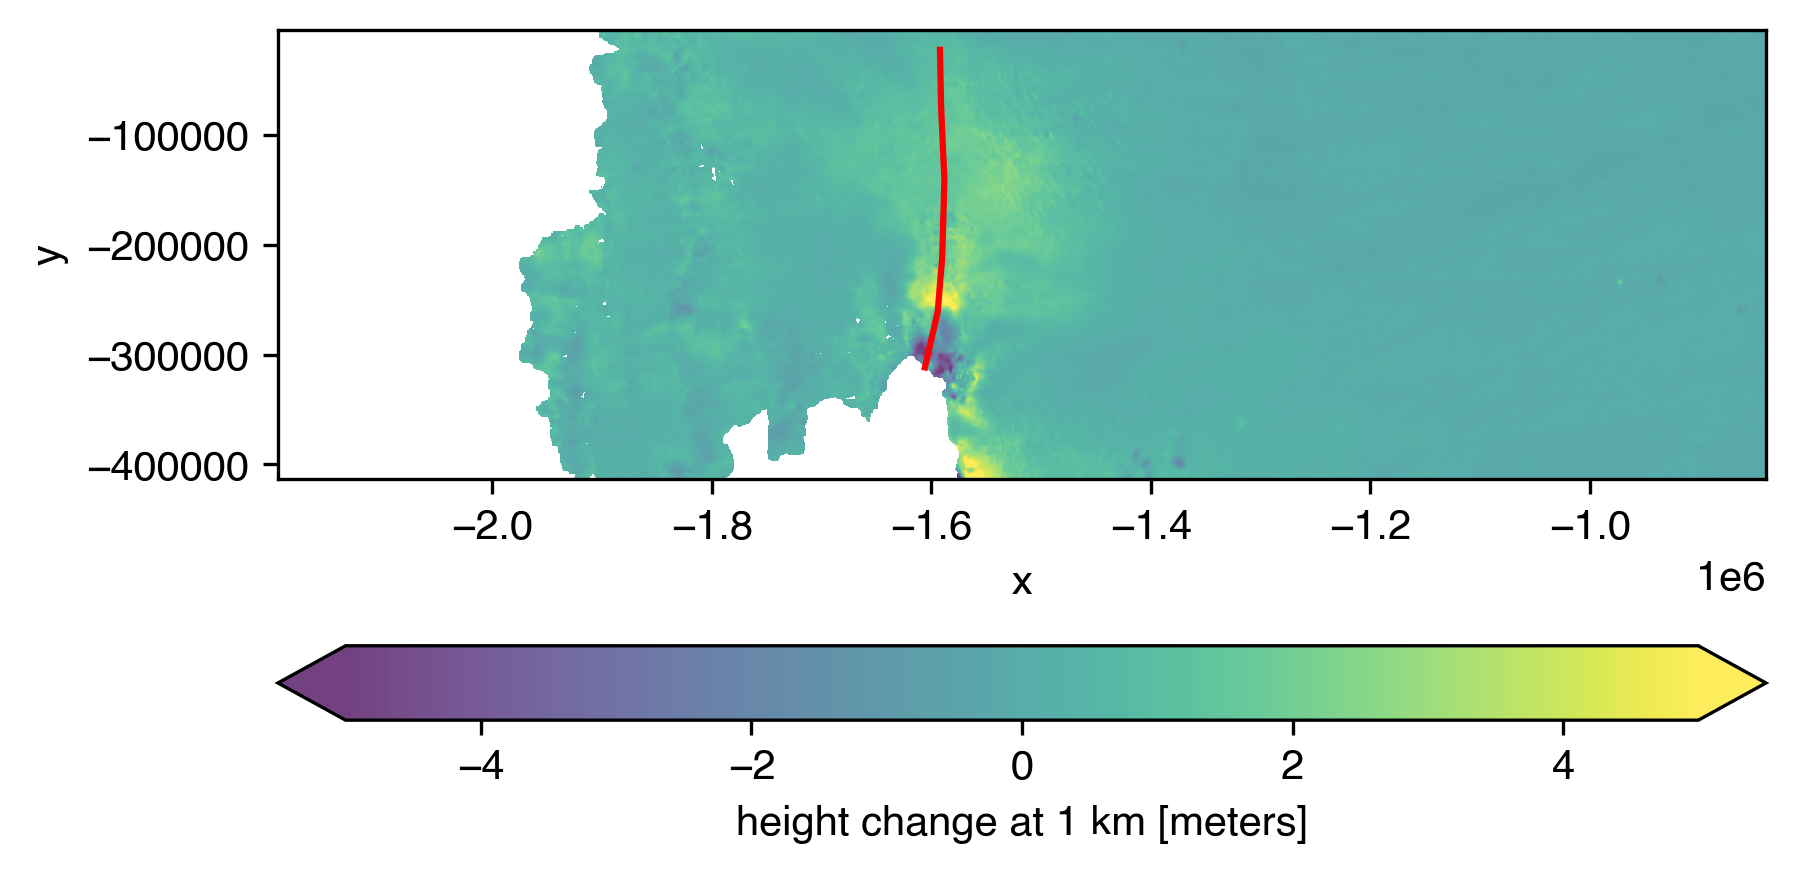
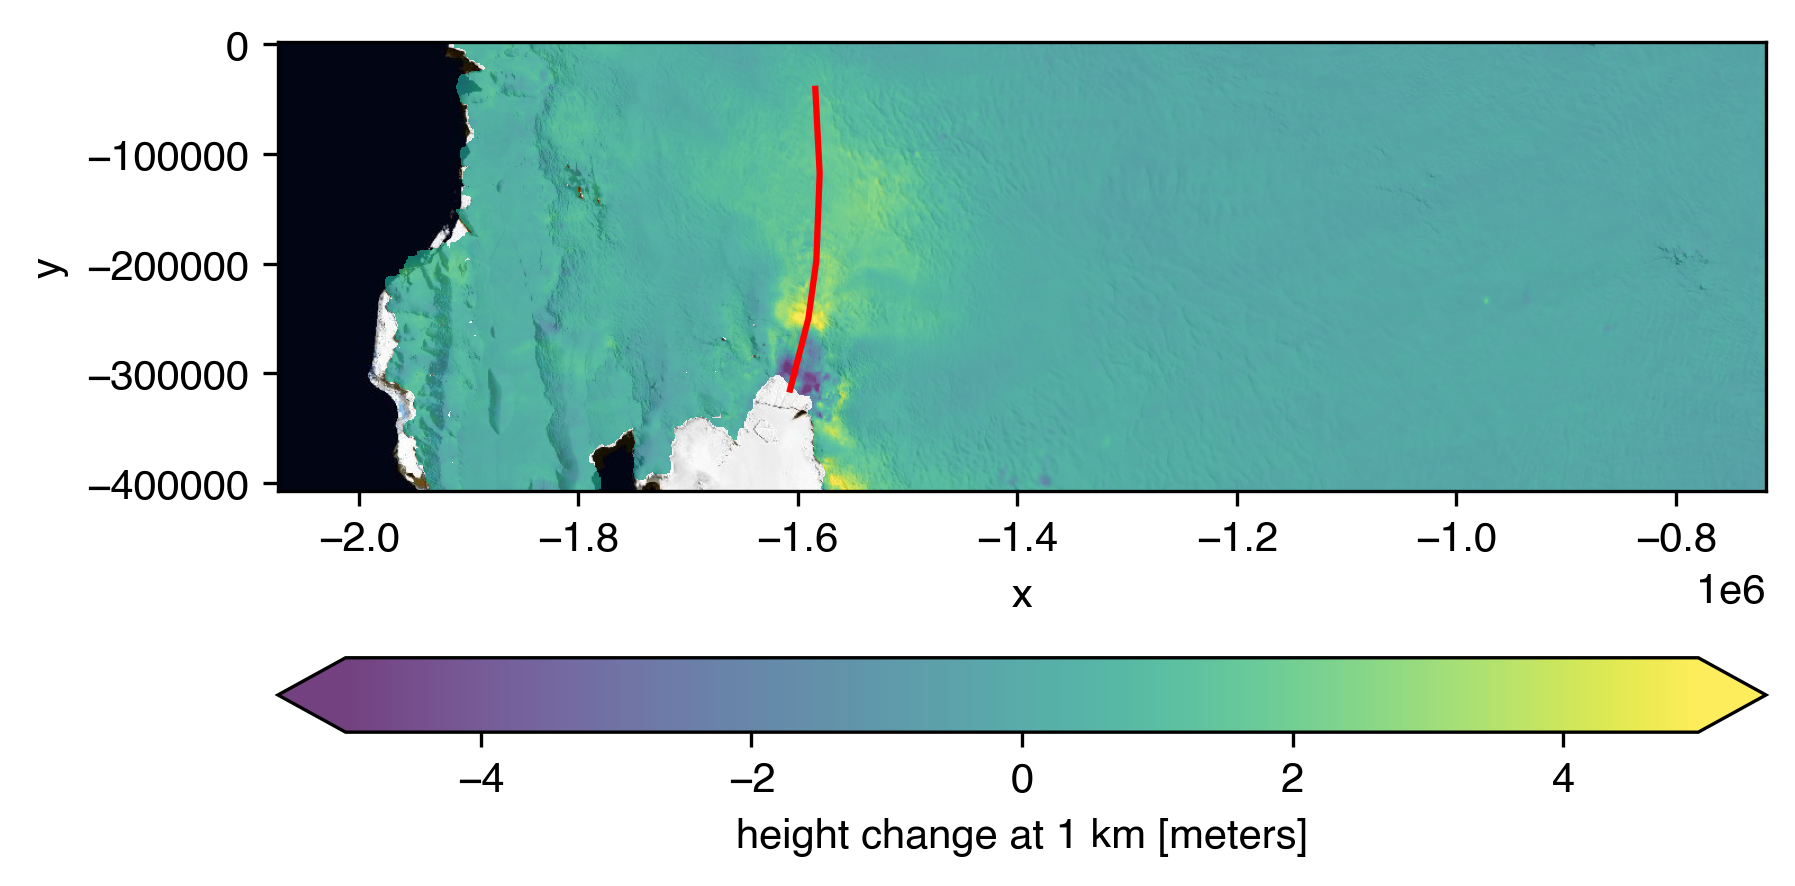
feat: add function for plotting basemap
make some dependencies optional

diff --git a/IS2view/api.py b/IS2view/api.py
@@ -5,9 +5,6 @@ Written by Tyler Sutterley (07/2023)
 Plotting tools for visualizing rioxarray variables on leaflet maps
 
 PYTHON DEPENDENCIES:
-    numpy: Scientific Computing Tools For Python
-        https://numpy.org
-        https://numpy.org/doc/stable/user/numpy-for-matlab-users.html
     geopandas: Python tools for geographic data
         http://geopandas.readthedocs.io/
     ipywidgets: interactive HTML widgets for Jupyter notebooks and IPython
@@ -17,6 +14,11 @@ PYTHON DEPENDENCIES:
     matplotlib: Python 2D plotting library
         http://matplotlib.org/
         https://github.com/matplotlib/matplotlib
+    numpy: Scientific Computing Tools For Python
+        https://numpy.org
+        https://numpy.org/doc/stable/user/numpy-for-matlab-users.html
+    OWSLib: Pythonic interface for Open Geospatial Consortium (OGC) web services
+        https://owslib.readthedocs.io/
     rasterio: Access to geospatial raster data
         https://github.com/rasterio/rasterio
         https://rasterio.readthedocs.io
@@ -25,7 +27,7 @@ PYTHON DEPENDENCIES:
 
 UPDATE HISTORY:
     Updated 07/2023: renamed module from IS2view.py to api.py
-        add plot function for added map geometries
+        add plot functions for map basemaps and added geometries
         add imshow function for visualizing current leaflet map
     Updated 06/2023: moved widgets functions to separate moddule
     Updated 12/2022: added case for warping input image
@@ -73,6 +75,12 @@ try:
 except (ImportError, ModuleNotFoundError) as exc:
     warnings.filterwarnings("module")
     warnings.warn("matplotlib not available")
+    warnings.warn("Some functions will throw an exception if called")
+try:
+    import owslib.wms
+except (ImportError, ModuleNotFoundError) as exc:
+    warnings.filterwarnings("module")
+    warnings.warn("owslib not available")
     warnings.warn("Some functions will throw an exception if called")
 try:
     import rasterio.transform
@@ -414,8 +422,47 @@ class Leaflet:
                 logging.info(f"{obj} already removed from map")
                 pass
 
+    # plot basemap
+    def plot_basemap(self, ax=None, **kwargs):
+        """Plot the current basemap
+
+        Parameters
+        ----------
+        ax: obj, default None
+            Figure axis
+        kwargs: dict, default {}
+            Additional keyword arguments for ``wms.getmap``
+        """
+        # set default keyword arguments
+        kwargs.setdefault('layers', ['BlueMarble_NextGeneration'])
+        kwargs.setdefault('format', 'image/png')
+        kwargs.setdefault('srs', self.map.crs['name'])
+        # create figure axis if non-existent
+        if (ax is None):
+            _, ax = plt.subplots()
+        # get the pixel bounds and resolution of the map
+        (left, top), (right, bottom) = self.map.pixel_bounds
+        resolution = self.map.crs['resolutions'][int(self.map.zoom)]
+        # calculate the size of the map in pixels
+        kwargs.setdefault('size', [int((right-left)), int((bottom-top))])
+        # calculate the bounding box of the map in projected coordinates
+        bbox = [None]*4
+        bbox[0] = self.map.crs['origin'][0] + left*resolution
+        bbox[1] = self.map.crs['origin'][1] - bottom*resolution
+        bbox[2] = self.map.crs['origin'][0] + right*resolution
+        bbox[3] = self.map.crs['origin'][1] - top*resolution
+        kwargs.setdefault('bbox', bbox)
+        # create WMS request for basemap image at bounds and resolution
+        srs = kwargs['srs'].replace(':', '').lower()
+        url = f'https://gibs.earthdata.nasa.gov/wms/{srs}/best/wms.cgi?'
+        wms = owslib.wms.WebMapService(url=url, version='1.1.1')
+        basemap = wms.getmap(**kwargs)
+        # read WMS layer and plot
+        img = plt.imread(io.BytesIO(basemap.read()))
+        ax.imshow(img, extent=[bbox[0],bbox[2],bbox[1],bbox[3]])
+
     # plot geometries
-    def plot(self, ax=None, **kwargs):
+    def plot_geometries(self, ax=None, **kwargs):
         """Plot the current geometries in the coordinate reference
         system (``crs``) of the map
 

diff --git a/doc/source/getting_started/Citations.rst b/doc/source/getting_started/Citations.rst
@@ -42,19 +42,25 @@ Dependencies
 
 This software is also dependent on other commonly used Python packages:
 
-- `boto3: Amazon Web Services (AWS) SDK for Python <https://boto3.amazonaws.com/v1/documentation/api/latest/index.html>`_
-- `bottleneck: Fast NumPy array functions written in C <https://github.com/pydata/bottleneck>`_
-- `dask: Parallel computing with task scheduling <https://www.dask.org/>`_
-- `geopandas: Python tools for geographic data <http://geopandas.readthedocs.io/>`_
 - `ipyleaflet: Interactive maps in the Jupyter notebook <https://ipyleaflet.readthedocs.io/en/latest/>`_
 - `matplotlib: Python 2D plotting library <https://matplotlib.org/>`_
 - `netCDF4: Python interface to the netCDF C library <https://unidata.github.io/netcdf4-python/>`_
 - `numpy: Scientific Computing Tools For Python <https://numpy.org>`_
 - `rasterio: Access to geospatial raster data <https://rasterio.readthedocs.io/en/latest/>`_
 - `rioxarray: geospatial xarray extension powered by rasterio <https://github.com/corteva/rioxarray>`_
-- `s3fs: Pythonic file interface to S3 built on top of botocore <https://s3fs.readthedocs.io/en/latest/>`_
 - `setuptools_scm: manager for python package versions using scm metadata <https://pypi.org/project/setuptools-scm>`_
 - `xarray: N-D labeled arrays and datasets in Python <https://docs.xarray.dev/en/stable/>`_
+
+Optional Dependencies
+---------------------
+
+- `boto3: Amazon Web Services (AWS) SDK for Python <https://boto3.amazonaws.com/v1/documentation/api/latest/index.html>`_
+- `bottleneck: Fast NumPy array functions written in C <https://github.com/pydata/bottleneck>`_
+- `dask: Parallel computing with task scheduling <https://www.dask.org/>`_
+- `geopandas: Python tools for geographic data <http://geopandas.readthedocs.io/>`_
+- `h5netcdf: Pythonic interface to netCDF4 via h5py <https://h5netcdf.org/>`_
+- `OWSLib: Pythonic interface for Open Geospatial Consortium (OGC) web services <https://owslib.readthedocs.io/>`_
+- `s3fs: Pythonic file interface to S3 built on top of botocore <https://s3fs.readthedocs.io/en/latest/>`_
 - `zarr: Chunked, compressed, N-dimensional arrays in Python <https://zarr.readthedocs.io/en/stable/>`_
 
 Disclaimer

diff --git a/README.rst b/README.rst
@@ -32,20 +32,14 @@ Interactive visualization and data extraction tool for ICESat-2 ATL14/15 Gridded
 Dependencies
 ############
 
-- `boto3: Amazon Web Services (AWS) SDK for Python <https://boto3.amazonaws.com/v1/documentation/api/latest/index.html>`_
-- `bottleneck: Fast NumPy array functions written in C <https://github.com/pydata/bottleneck>`_
-- `dask: Parallel computing with task scheduling <https://www.dask.org/>`_
-- `geopandas: Python tools for geographic data <http://geopandas.readthedocs.io/>`_
 - `ipyleaflet: Interactive maps in the Jupyter notebook <https://ipyleaflet.readthedocs.io/en/latest/>`_
 - `matplotlib: Python 2D plotting library <https://matplotlib.org/>`_
 - `netCDF4: Python interface to the netCDF C library <https://unidata.github.io/netcdf4-python/>`_
 - `numpy: Scientific Computing Tools For Python <https://numpy.org>`_
 - `rasterio: Access to geospatial raster data <https://rasterio.readthedocs.io/en/latest/>`_
 - `rioxarray: geospatial xarray extension powered by rasterio <https://github.com/corteva/rioxarray>`_
-- `s3fs: Pythonic file interface to S3 built on top of botocore <https://s3fs.readthedocs.io/en/latest/>`_
 - `setuptools_scm: manager for python package versions using scm metadata <https://pypi.org/project/setuptools-scm>`_
 - `xarray: N-D labeled arrays and datasets in Python <https://docs.xarray.dev/en/stable/>`_
-- `zarr: Chunked, compressed, N-dimensional arrays in Python <https://zarr.readthedocs.io/en/stable/>`_
 
 Download
 ########

diff --git a/doc/source/user_guide/Recipes.rst b/doc/source/user_guide/Recipes.rst
@@ -26,6 +26,8 @@ Add Contextual Layers
 Plot a Transect
 ###############
 
+Requires optional ``geopandas`` dependency.
+
 .. code-block:: python
 
    import geopandas
@@ -47,6 +49,8 @@ Plot a Transect
 
 Plot Multiple Time Series
 #########################
+
+Requires optional ``geopandas`` and ``fiona`` dependencies.
 
 .. code-block:: python
 
@@ -83,6 +87,8 @@ Plot Multiple Time Series
 
 Calculate Area Averages
 #######################
+
+Requires optional ``geopandas`` dependency.
 
 .. code-block:: python
 
@@ -138,15 +144,19 @@ Calculate Area Averages
 Save a Map to a File
 ####################
 
+Requires optional ``geopandas`` and ``owslib`` dependencies.
+
 .. code-block:: python
 
    import matplotlib.pyplot as plt
    # create a figure and axis
    fig,ax = plt.subplots()
+   # create image of basemap
+   m.plot_basemap(ax=ax)
    # create image of current map
    ds.leaflet.imshow(ax=ax)
    # add all geometries to the map
-   m.plot(ax=ax, color='red')
+   m.plot_geometries(ax=ax, color='red')
    # save map plot
    plt.savefig('map.png', bbox_inches='tight', dpi=300)
 
